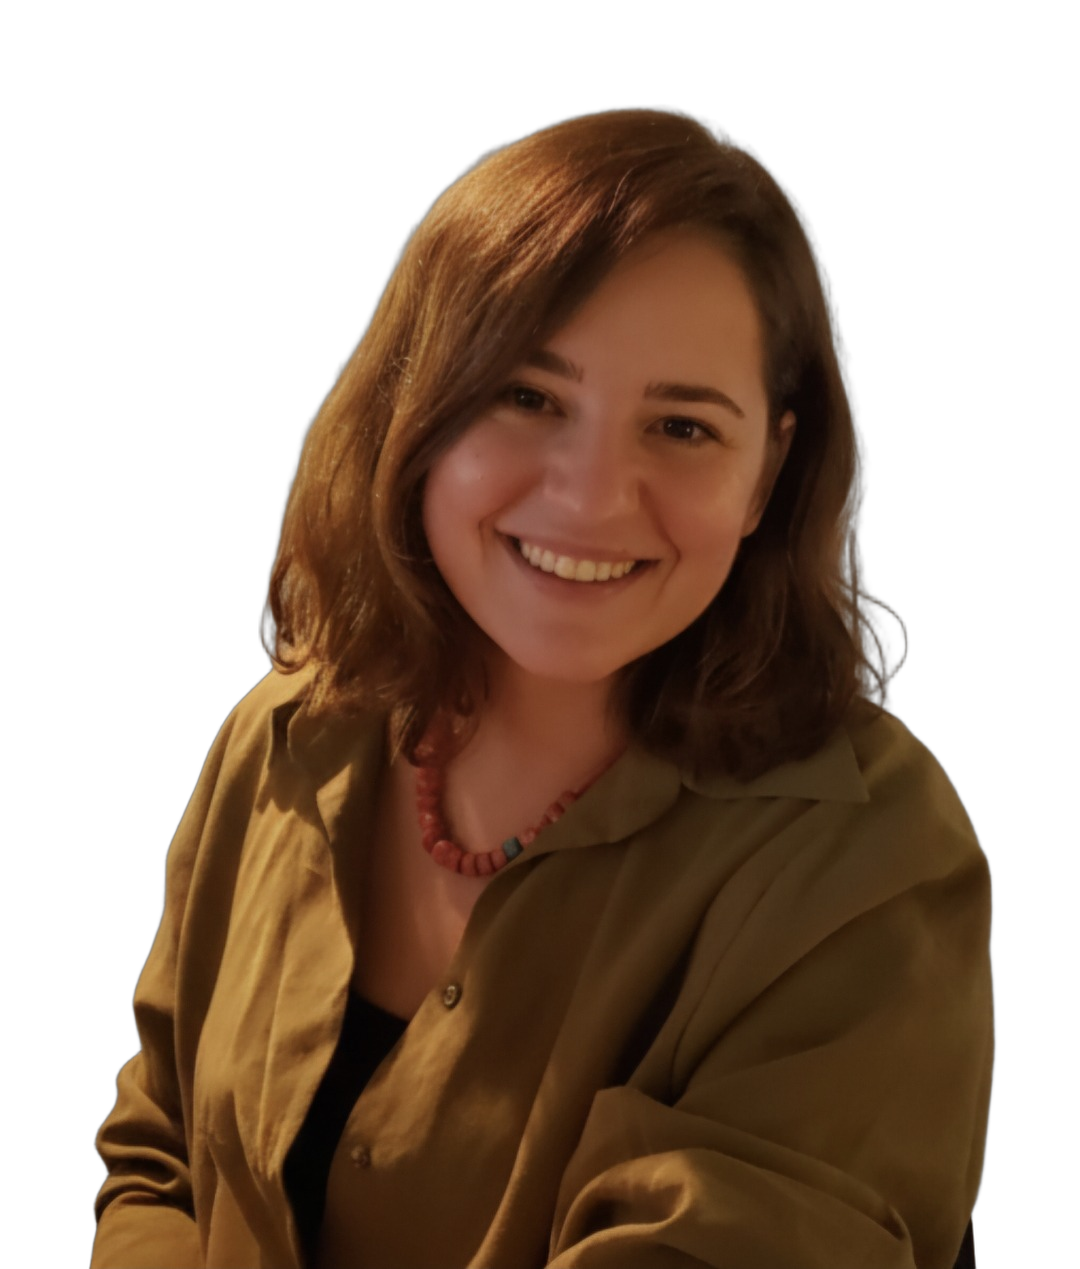
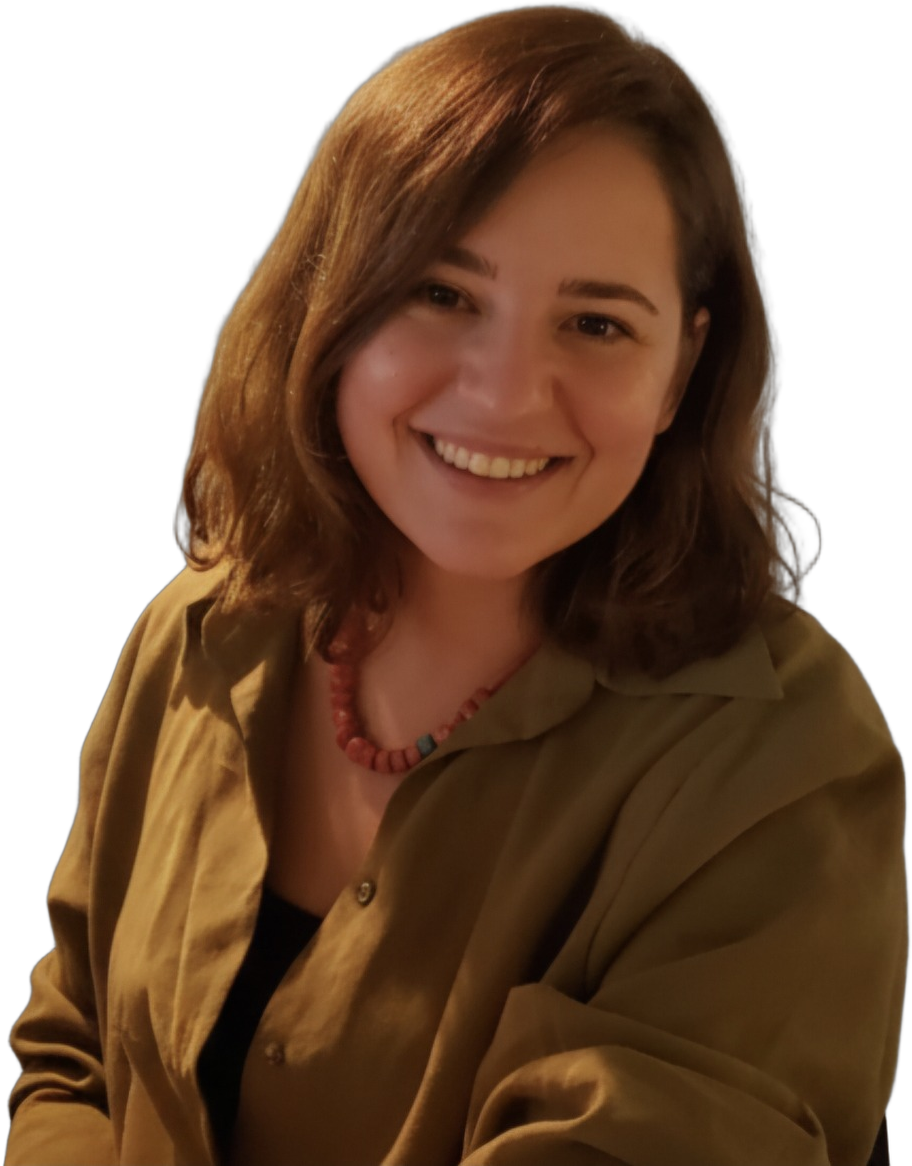
Kapak fotografini zemine oturt: golge + sicak isik katmani
Sorun: kesilmis fotograf duz mor blob'un ustunde golgesiz duruyordu,
yapistirilmis gibi gorunuyordu (Monetra referansiyla karsilastirildi).

Cozum:
- Kesimi gercek icerik sinirina kirptim (bbox), bosluk gitti
- img'ye cift drop-shadow filtre eklendi (yumusak temas golgesi)
- Fotografin arkasina sicak altin renginde radial-gradient isik katmani
  eklendi, duz vektor zemin ile fotografin ten/kiyafet tonlari arasindaki
  sicrama azaldi

Claude-Session: https://claude.ai/code/session_012LDHAuJWzUWKPnKFVYKoxF

diff --git a/.claude/templates/brand.css b/.claude/templates/brand.css
@@ -293,9 +293,17 @@ li b { color: var(--aksan); font-weight: 700; flex-shrink: 0; }
   background: var(--aksan); opacity: .16; filter: blur(2px);
 }
 .slayt.foto-blob .foto-buyuk {
-  position: absolute; z-index: 1; right: 4%; bottom: 0;
-  width: 58%; height: 82%;
+  position: absolute; z-index: 1; right: 2%; bottom: 0;
+  width: 62%; height: 86%;
 }
-.slayt.foto-blob .foto-buyuk img { width: 100%; height: 100%; object-fit: contain; object-position: bottom; }
+.slayt.foto-blob .foto-buyuk img {
+  width: 100%; height: 100%; object-fit: contain; object-position: bottom;
+  filter: drop-shadow(0 18px 26px rgba(30,20,10,.28)) drop-shadow(0 2px 6px rgba(30,20,10,.18));
+}
+/* sicak zemin isigi — foto ile duz zemin arasindaki renk sicramasini yumusatir */
+.slayt.foto-blob .isik {
+  position: absolute; z-index: 0; border-radius: 50%;
+  background: radial-gradient(circle, rgba(224,174,67,.38) 0%, rgba(224,174,67,0) 70%);
+}
 .slayt.foto-blob .govde-ust { position: relative; z-index: 2; padding-top: 8px; }
 .slayt.foto-blob .kartlar-alt { position: relative; z-index: 2; margin-top: auto; }

diff --git a/.claude/templates/karusel-kapak-foto-buyuk.html b/.claude/templates/karusel-kapak-foto-buyuk.html
@@ -6,6 +6,7 @@
 <link rel="stylesheet" href="brand.css"></head><body>
 <div class="slayt tema-mor foto-blob">
   <div class="blob" style="width:620px;height:620px;right:-140px;top:120px"></div>
+  <div class="isik" style="width:520px;height:520px;right:20px;bottom:-60px"></div>
 
   <div class="ilerleme">
     <div class="cizgiler"><div class="c1"></div><div class="c2"></div></div>
